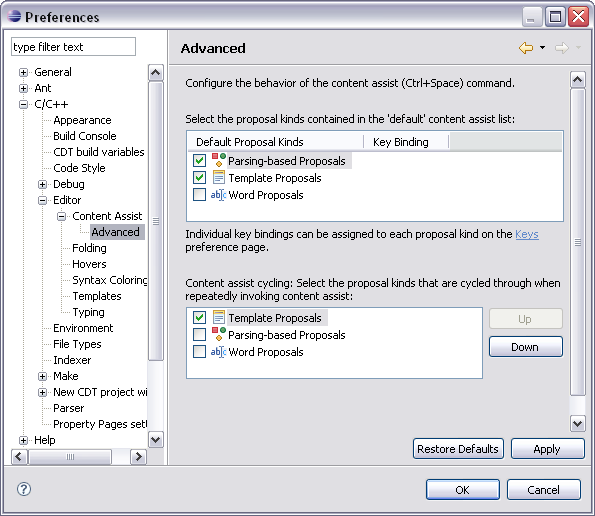
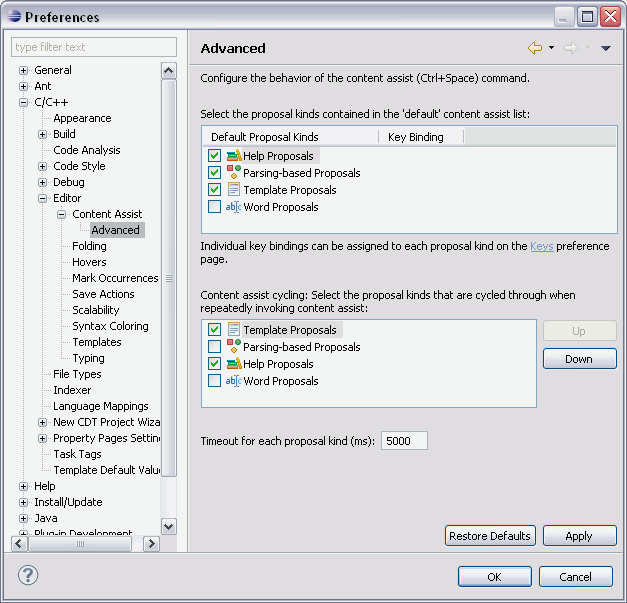
Bug 351076 - Make MAX_DELAY of editor content assist computation configurable

Changed region(s): [[0.0, 0.0, 0.9983, 1.0]]

diff --git a/doc/org.eclipse.cdt.doc.user/reference/cdt_u_c_editor_con_assist_adv.htm b/doc/org.eclipse.cdt.doc.user/reference/cdt_u_c_editor_con_assist_adv.htm
@@ -44,6 +44,13 @@
 			<td headers="option"><strong>Down</strong></td>
 			<td headers="description">Moves the selected proposal item down in the cycling list.</td>
 		</tr>
+        <tr valign="top">
+            <td headers="option"><strong>Timeout for each proposal kind (ms)</strong></td>
+            <td headers="description">Specifies the number of milliseconds a code completion proposal kind is allowed to compute 
+            proposals. If it takes more time then it is assumed that this proposal kind is faulty. 
+            In this case a dialog is opened and an appropriate message is shown to the user<br>If the value is 0 each completion 
+            proposal can compute as long as it needs to before being assumed to be faulty.</td>
+        </tr>
 	</tbody>
 </table>
 

diff --git a/core/org.eclipse.cdt.ui/src/org/eclipse/cdt/internal/ui/preferences/CodeAssistAdvancedConfigurationBlock.java b/core/org.eclipse.cdt.ui/src/org/eclipse/cdt/internal/ui/preferences/CodeAssistAdvancedConfigurationBlock.java
@@ -1,5 +1,5 @@
 /*******************************************************************************
- * Copyright (c) 2005, 2010 IBM Corporation and others.
+ * Copyright (c) 2005, 2011 IBM Corporation and others.
  * All rights reserved. This program and the accompanying materials
  * are made available under the terms of the Eclipse Public License v1.0
  * which accompanies this distribution, and is available at
@@ -55,6 +55,7 @@ import org.eclipse.swt.widgets.Label;
 import org.eclipse.swt.widgets.Link;
 import org.eclipse.swt.widgets.Table;
 import org.eclipse.swt.widgets.TableColumn;
+import org.eclipse.swt.widgets.Text;
 import org.eclipse.ui.PlatformUI;
 import org.eclipse.ui.commands.ICommandService;
 import org.eclipse.ui.dialogs.PreferencesUtil;
@@ -66,6 +67,7 @@ import org.eclipse.cdt.ui.CUIPlugin;
 import org.eclipse.cdt.ui.PreferenceConstants;
 
 import org.eclipse.cdt.internal.ui.dialogs.IStatusChangeListener;
+import org.eclipse.cdt.internal.ui.dialogs.StatusInfo;
 import org.eclipse.cdt.internal.ui.text.contentassist.CompletionProposalCategory;
 import org.eclipse.cdt.internal.ui.text.contentassist.CompletionProposalComputerRegistry;
 import org.eclipse.cdt.internal.ui.util.Messages;
@@ -80,11 +82,13 @@ final class CodeAssistAdvancedConfigurationBlock extends OptionsConfigurationBlo
 	
 	private static final Key PREF_EXCLUDED_CATEGORIES= getCDTUIKey(PreferenceConstants.CODEASSIST_EXCLUDED_CATEGORIES);
 	private static final Key PREF_CATEGORY_ORDER= getCDTUIKey(PreferenceConstants.CODEASSIST_CATEGORY_ORDER);
+	private static final Key PREF_PROPOSAL_TIMEOUT= getCDTUIKey(PreferenceConstants.CODEASSIST_PROPOSALS_TIMEOUT);
 	
 	private static Key[] getAllKeys() {
 		return new Key[] {
 				PREF_EXCLUDED_CATEGORIES,
 				PREF_CATEGORY_ORDER,
+				PREF_PROPOSAL_TIMEOUT
 		};
 	}
 
@@ -355,7 +359,6 @@ final class CodeAssistAdvancedConfigurationBlock extends OptionsConfigurationBlo
 		layout.marginHeight= 0;
 		composite.setLayout(layout);
 		
-		
 		createDefaultLabel(composite, columns);
 		createDefaultViewer(composite, columns);
 		createKeysLink(composite, columns);
@@ -366,7 +369,9 @@ final class CodeAssistAdvancedConfigurationBlock extends OptionsConfigurationBlo
         createSeparateSection(composite);
         
         createFiller(composite, columns);
-		
+
+		createTimeoutField(composite, columns);
+        
 		updateControls();
 		if (fModel.elements.size() > 0) {
 			fDefaultViewer.getTable().select(0);
@@ -379,6 +384,22 @@ final class CodeAssistAdvancedConfigurationBlock extends OptionsConfigurationBlo
 		return scrolled;
 	}
 	
+	private void createTimeoutField(Composite composite, int columns) {
+		Composite timeoutComposite= new Composite(composite, SWT.NONE);
+		GridLayout layout= new GridLayout(3, false);
+		layout.marginWidth= 0;
+		layout.marginHeight= 0;
+		timeoutComposite.setLayout(layout);
+		GridData gd= new GridData(GridData.FILL, GridData.FILL, true, false, columns, 1);
+		timeoutComposite.setLayoutData(gd);
+
+		PixelConverter pixelConverter= new PixelConverter(composite);
+		String label = PreferencesMessages.CEditorPreferencePage_ContentAssistPage_completionProposalTimeout;
+		Text textField = addTextField(timeoutComposite, label, PREF_PROPOSAL_TIMEOUT, 0, pixelConverter.convertWidthInCharsToPixels(7));
+		String toolTip = PreferencesMessages.CEditorPreferencePage_ContentAssistPage_completionProposalTimeoutToolTip;
+		textField.setToolTipText(toolTip);
+	}
+
 	private void createDefaultLabel(Composite composite, int h_span) {
 	    final ICommandService commandSvc= (ICommandService) PlatformUI.getWorkbench().getAdapter(ICommandService.class);
 		final Command command= commandSvc.getCommand(ITextEditorActionDefinitionIds.CONTENT_ASSIST_PROPOSALS);
@@ -642,6 +663,26 @@ final class CodeAssistAdvancedConfigurationBlock extends OptionsConfigurationBlo
 	 */
 	@Override
 	protected void validateSettings(Key changedKey, String oldValue, String newValue) {
+		if (changedKey == null) {
+			String newVal = getStoredValue(PREF_PROPOSAL_TIMEOUT);
+			validateSettings(PREF_PROPOSAL_TIMEOUT, null, newVal);
+		} 
+		else if (changedKey.equals(PREF_PROPOSAL_TIMEOUT)) {
+			StatusInfo statusInfo = new StatusInfo();
+			String errMsg = PreferencesMessages.CEditorPreferencePage_ContentAssistPage_completionProposalTimeoutErrMsg;
+			statusInfo.setError(errMsg);
+			if (newValue != null) {
+			    try {
+				    long parseLong = Long.parseLong(newValue);
+				    if (parseLong >= 0l) {
+					    statusInfo.setOK();
+				    }
+			    } catch (final NumberFormatException e) {
+				    // do nothing
+			    }
+			}
+			fContext.statusChanged(statusInfo);
+		}
 	}
 
 	/*

diff --git a/core/org.eclipse.cdt.ui/src/org/eclipse/cdt/internal/ui/text/contentassist/CompletionProposalComputerDescriptor.java b/core/org.eclipse.cdt.ui/src/org/eclipse/cdt/internal/ui/text/contentassist/CompletionProposalComputerDescriptor.java
@@ -1,5 +1,5 @@
 /*******************************************************************************
- * Copyright (c) 2005, 2008 IBM Corporation and others.
+ * Copyright (c) 2005, 2011 IBM Corporation and others.
  * All rights reserved. This program and the accompanying materials
  * are made available under the terms of the Eclipse Public License v1.0
  * which accompanies this distribution, and is available at
@@ -34,6 +34,7 @@ import org.eclipse.jface.text.contentassist.IContextInformation;
 import org.osgi.framework.Bundle;
 
 import org.eclipse.cdt.ui.CUIPlugin;
+import org.eclipse.cdt.ui.PreferenceConstants;
 import org.eclipse.cdt.ui.text.ICPartitions;
 import org.eclipse.cdt.ui.text.contentassist.ContentAssistInvocationContext;
 import org.eclipse.cdt.ui.text.contentassist.ICompletionProposalComputer;
@@ -70,13 +71,6 @@ final class CompletionProposalComputerDescriptor {
 	 * core's {@link PerformanceStats} service.
 	 */
 	private static final boolean MEASURE_PERFORMANCE= PerformanceStats.isEnabled(PERFORMANCE_EVENT);
-	/**
-	 * Independently of the {@link PerformanceStats} service, any operation that takes longer than
-	 * {@value} milliseconds will be flagged as an violation. This timeout does not apply to the
-	 * first invocation, as it may take longer due to plug-in initialization etc. See also
-	 * {@link #fIsReportingDelay}.
-	 */
-	private static final long MAX_DELAY= 5000;
 	
 	/* log constants */
 	private static final String COMPUTE_COMPLETION_PROPOSALS= "computeCompletionProposals()"; //$NON-NLS-1$
@@ -113,7 +107,7 @@ final class CompletionProposalComputerDescriptor {
 	/** The first error message in the most recent operation, or <code>null</code>. */
 	private String fLastError;
 	/**
-	 * Tells whether to inform the user when <code>MAX_DELAY</code> has been exceeded.
+	 * Tells whether to inform the user when the value of <code>getMaxDelay()</code> has been exceeded.
 	 * We start timing execution after the first session because the first may take
 	 * longer due to plug-in activation and initialization.
 	 */
@@ -463,13 +457,32 @@ final class CompletionProposalComputerDescriptor {
 		
 		if (fIsReportingDelay) {
 			long current= System.currentTimeMillis();
-			if (current - fStart > MAX_DELAY) {
+			if (current - fStart > getMaxDelay()) {
 				IStatus status= createPerformanceStatus(operation);
 				fRegistry.informUser(this, status);
 			}
 		}
 	}
 
+	/**
+	 * Independently of the {@link PerformanceStats} service, any operation that takes longer than
+     * the milliseconds returned by this method will be flagged as an violation. This timeout does
+     * not apply to the first invocation, as it may take longer due to plug-in initialization etc. 
+     * See also {@link #fIsReportingDelay}.
+     * <p>
+     * The max duration is stored in the preference {@link ContentAssistPreference#PROPOSALS_TIMEOUT}
+	 * 
+	 * @return the max duration (ms) a proposal computer is allowed to compute until it is 
+	 *         assumed to be buggy and will be disabled.<br>
+	 *         Is always > 0
+	 */
+	private long getMaxDelay() {
+        long timeout = CUIPlugin.getDefault().getPreferenceStore().getLong(PreferenceConstants.CODEASSIST_PROPOSALS_TIMEOUT);
+        if (timeout <= 0L)
+	        return  Long.MAX_VALUE;
+        return timeout;
+	}
+	
 	private IStatus createExceptionStatus(InvalidRegistryObjectException x) {
 		// extension has become invalid - log & disable
 		String blame= createBlameMessage();

diff --git a/core/org.eclipse.cdt.ui/src/org/eclipse/cdt/ui/PreferenceConstants.java b/core/org.eclipse.cdt.ui/src/org/eclipse/cdt/ui/PreferenceConstants.java
@@ -1123,6 +1123,16 @@ public class PreferenceConstants {
 	public final static String CODEASSIST_PROPOSALS_FOREGROUND= "content_assist_proposals_foreground"; //$NON-NLS-1$
 	
 	/**
+     * A named preference that holds the duration (in milli seconds) a content proposal may compute 
+     * until it is assumed that the proposal computer has a problem and should be disabled.
+     * <p>
+     * Value is of type <code>long</code>.
+     * 
+     * @since 5.4 
+     */
+    public final static String CODEASSIST_PROPOSALS_TIMEOUT= "content_assist_proposals_timeout"; //$NON-NLS-1$
+
+    /**
 	 * A named preference that holds the background color used for parameter hints.
 	 * <p>
 	 * Value is of type <code>String</code>. A RGB color value encoded as a string
@@ -1959,6 +1969,8 @@ public class PreferenceConstants {
 		// Content assist
 		store.setDefault(PreferenceConstants.CODEASSIST_EXCLUDED_CATEGORIES, "org.eclipse.cdt.ui.textProposalCategory\0"); //$NON-NLS-1$
 		store.setDefault(PreferenceConstants.CODEASSIST_CATEGORY_ORDER, "org.eclipse.cdt.ui.parserProposalCategory:65539\0org.eclipse.cdt.ui.textProposalCategory:65541\0org.eclipse.cdt.ui.templateProposalCategory:2\0org.eclipse.cdt.ui.helpProposalCategory:5\0"); //$NON-NLS-1$
+
+		store.setDefault(PreferenceConstants.CODEASSIST_PROPOSALS_TIMEOUT, 5000);
 
 		setDefaultAndFireEvent(
 				store,

diff --git a/core/org.eclipse.cdt.ui/src/org/eclipse/cdt/internal/ui/preferences/PreferencesMessages.java b/core/org.eclipse.cdt.ui/src/org/eclipse/cdt/internal/ui/preferences/PreferencesMessages.java
@@ -52,6 +52,9 @@ public final class PreferencesMessages extends NLS {
 	public static String CEditorPreferencePage_ContentAssistPage_proposalFilterSelect;
 	public static String CEditorPreferencePage_ContentAssistPage_completionProposalBackgroundColor;
 	public static String CEditorPreferencePage_ContentAssistPage_completionProposalForegroundColor;
+	public static String CEditorPreferencePage_ContentAssistPage_completionProposalTimeout;
+	public static String CEditorPreferencePage_ContentAssistPage_completionProposalTimeoutErrMsg;
+	public static String CEditorPreferencePage_ContentAssistPage_completionProposalTimeoutToolTip;
 	public static String CEditorPreferencePage_ContentAssistPage_parameterBackgroundColor;
 	public static String CEditorPreferencePage_ContentAssistPage_parameterForegroundColor;
 	public static String CEditorPreferencePage_ContentAssistPage_sortingSection_title;

diff --git a/core/org.eclipse.cdt.ui/src/org/eclipse/cdt/internal/ui/text/contentassist/ContentAssistPreference.java b/core/org.eclipse.cdt.ui/src/org/eclipse/cdt/internal/ui/text/contentassist/ContentAssistPreference.java
@@ -40,6 +40,8 @@ public class ContentAssistPreference {
 	public final static String AUTOACTIVATION_DELAY=  "content_assist_autoactivation_delay"; //$NON-NLS-1$
 	/** Preference key for content assist timeout delay (unused) */
 	public final static String TIMEOUT_DELAY=  "content_assist_timeout_delay"; //$NON-NLS-1$
+	/** Preference key for completion proposal timeout */
+	public final static String PROPOSALS_TIMEOUT=  PreferenceConstants.CODEASSIST_PROPOSALS_TIMEOUT;
 	/** Preference key for content assist proposal color */
 	public final static String PROPOSALS_FOREGROUND=  PreferenceConstants.CODEASSIST_PROPOSALS_FOREGROUND;
 	/** Preference key for content assist proposal color */
